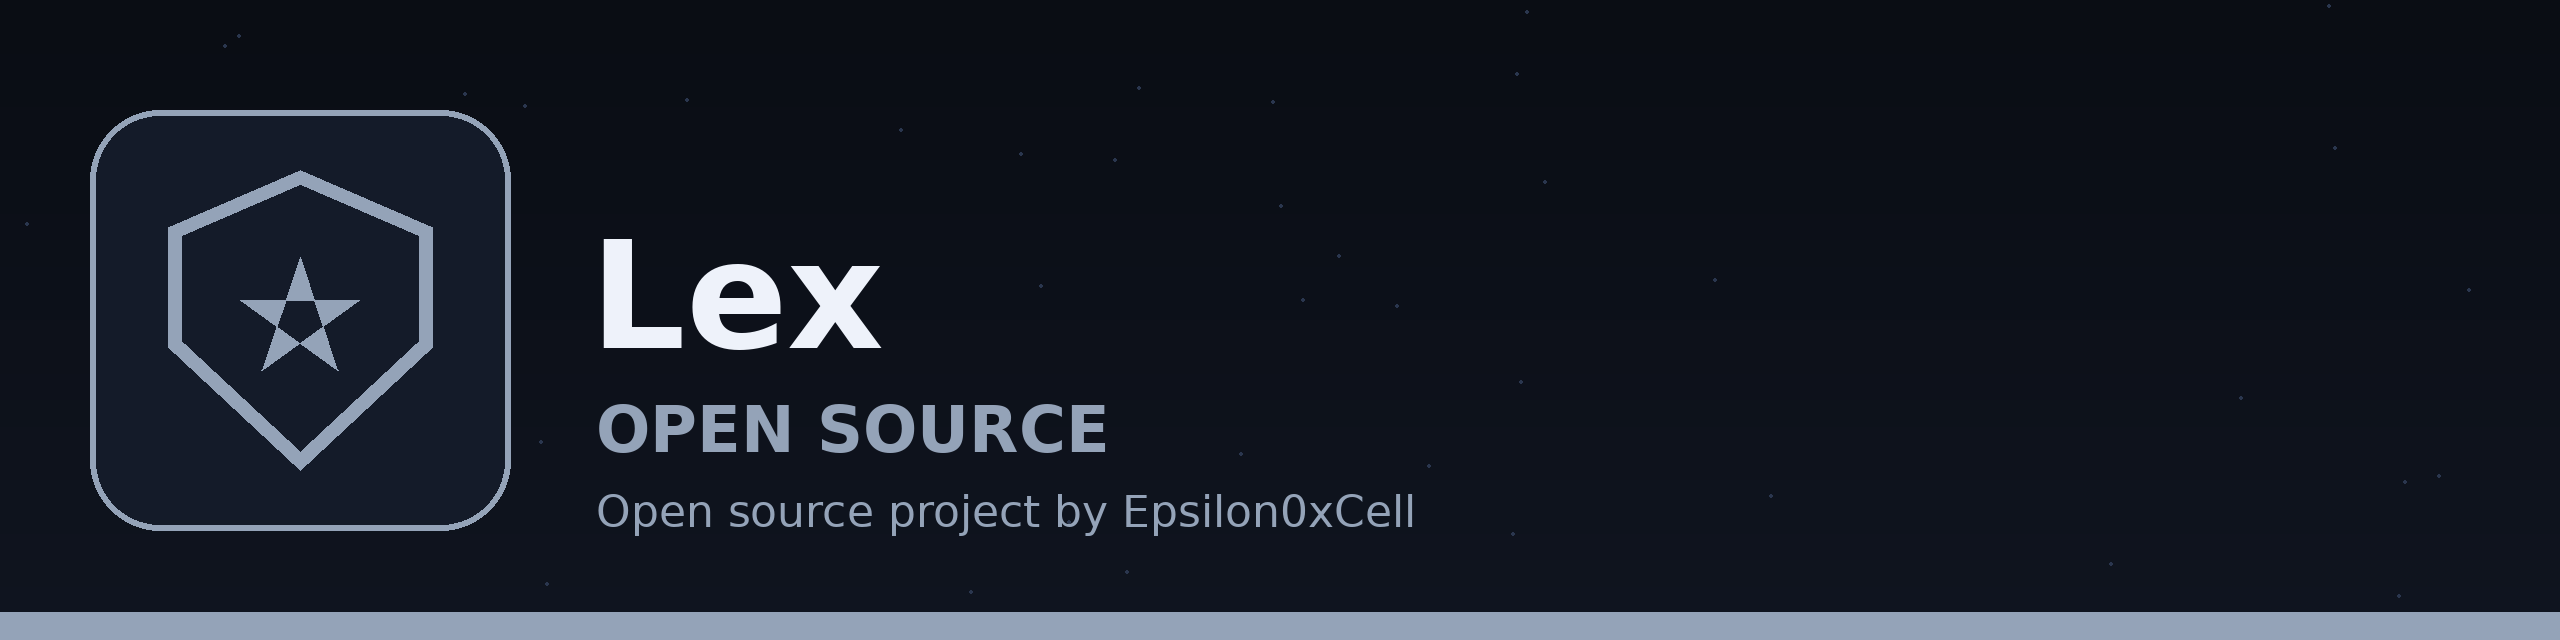
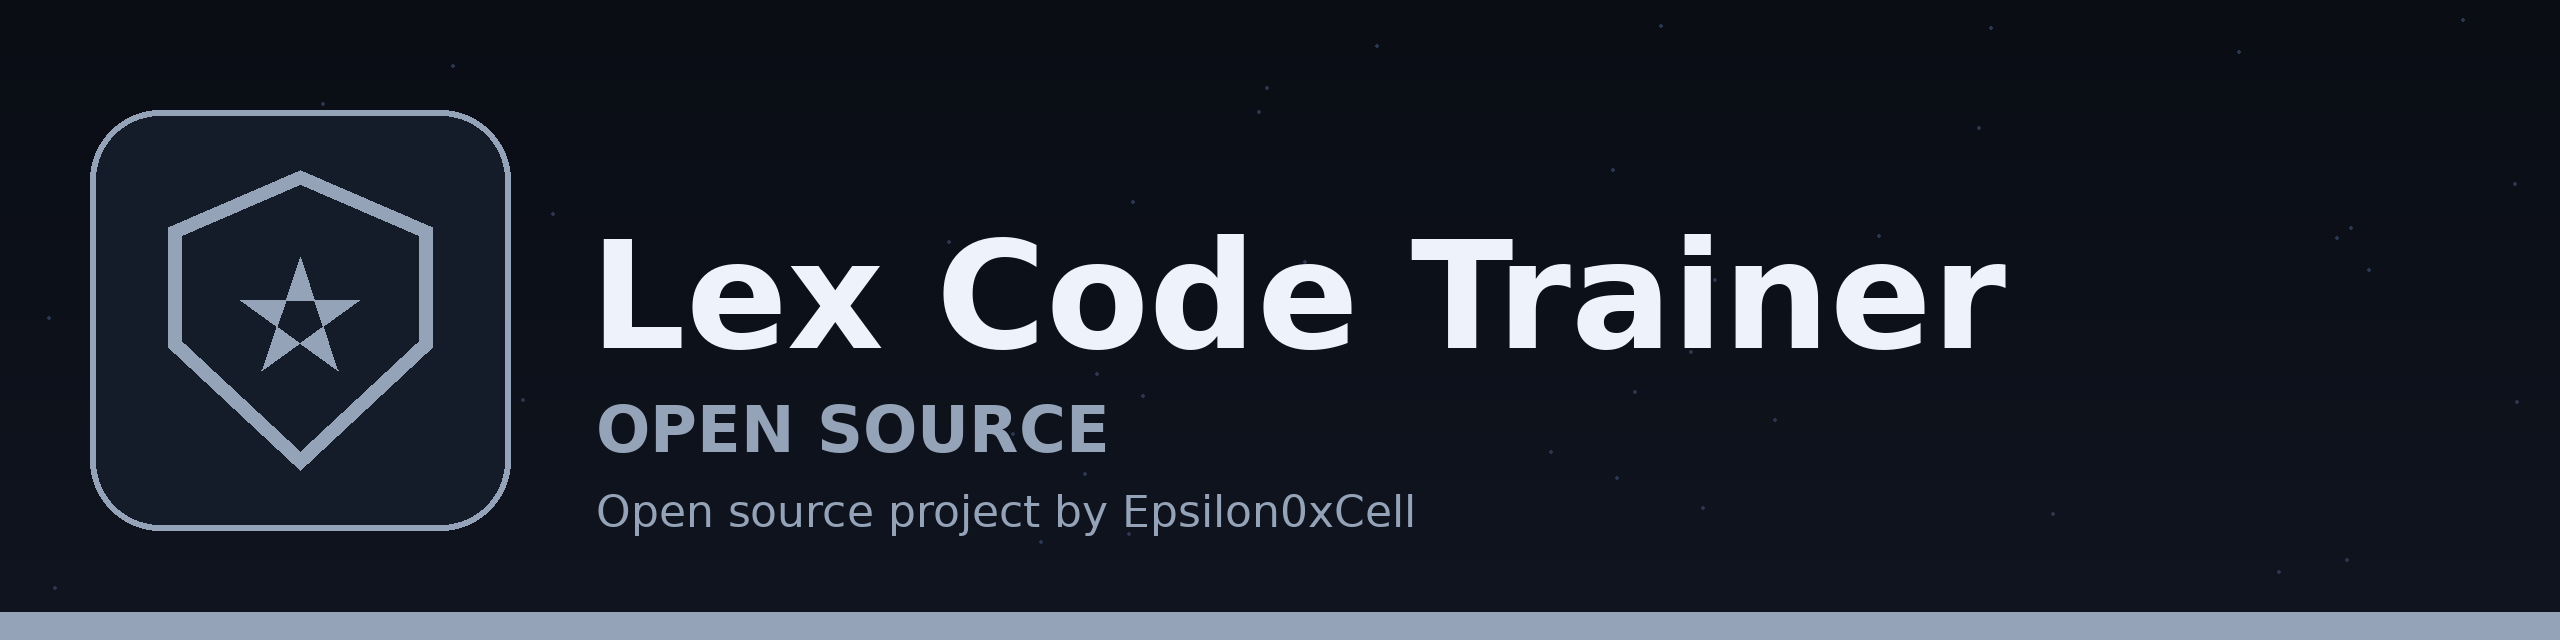
Update name to Lex-Code-Trainer: README title and branding

Changed region(s): [[0.5312, 0.3438, 0.7812, 0.5625], [0.3438, 0.3438, 0.5312, 0.5625]]

diff --git a/README.md b/README.md
@@ -1,10 +1,10 @@
 ![Lex banner](banner.png)
 
-# Lex
+# Lex-Code-Trainer
 
 Lex is the AI programming assistant done right.
 
-# What makes Lex different?
+# What makes Lex-Code-Trainer different?
 
 Lex ensures that you are not copying and pasting code but rather
 understanding each line. After Lex shows you code, only a single line is
